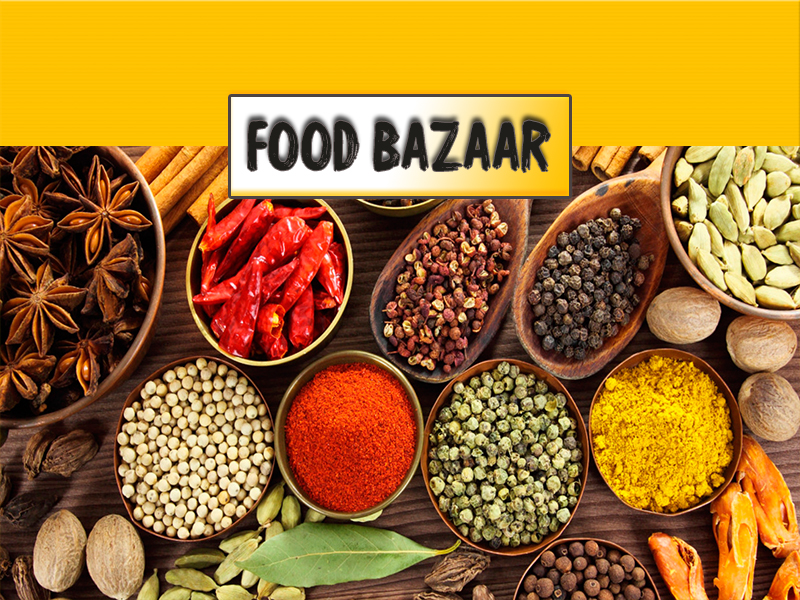
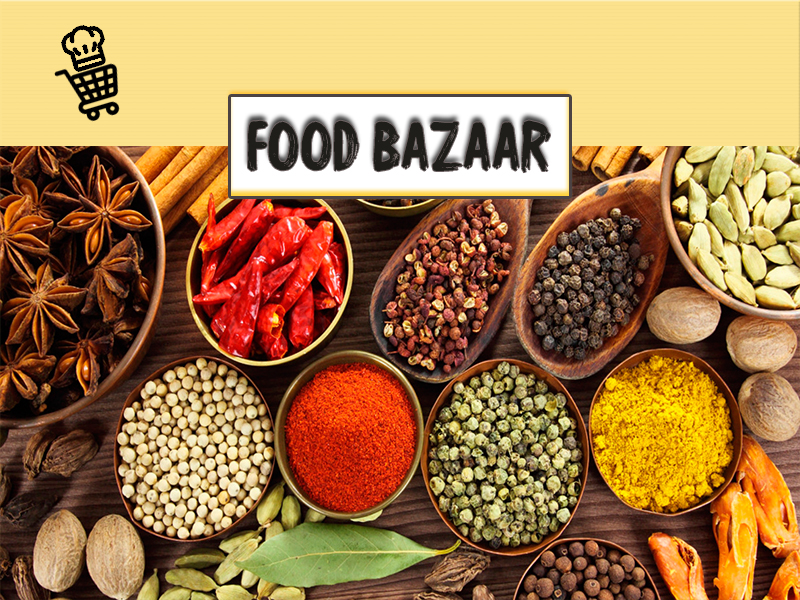
color changes

Changed region(s): [[0.0, 0.0, 1.0, 0.33]]

diff --git a/src/sample/CommonBG.css b/src/sample/CommonBG.css
@@ -1,0 +1,4 @@
+.bgcommon{
+    -fx-background-image: url("/sample/commontypeImage.jpg");
+    -fx-background-size: 100% 100%;
+}
